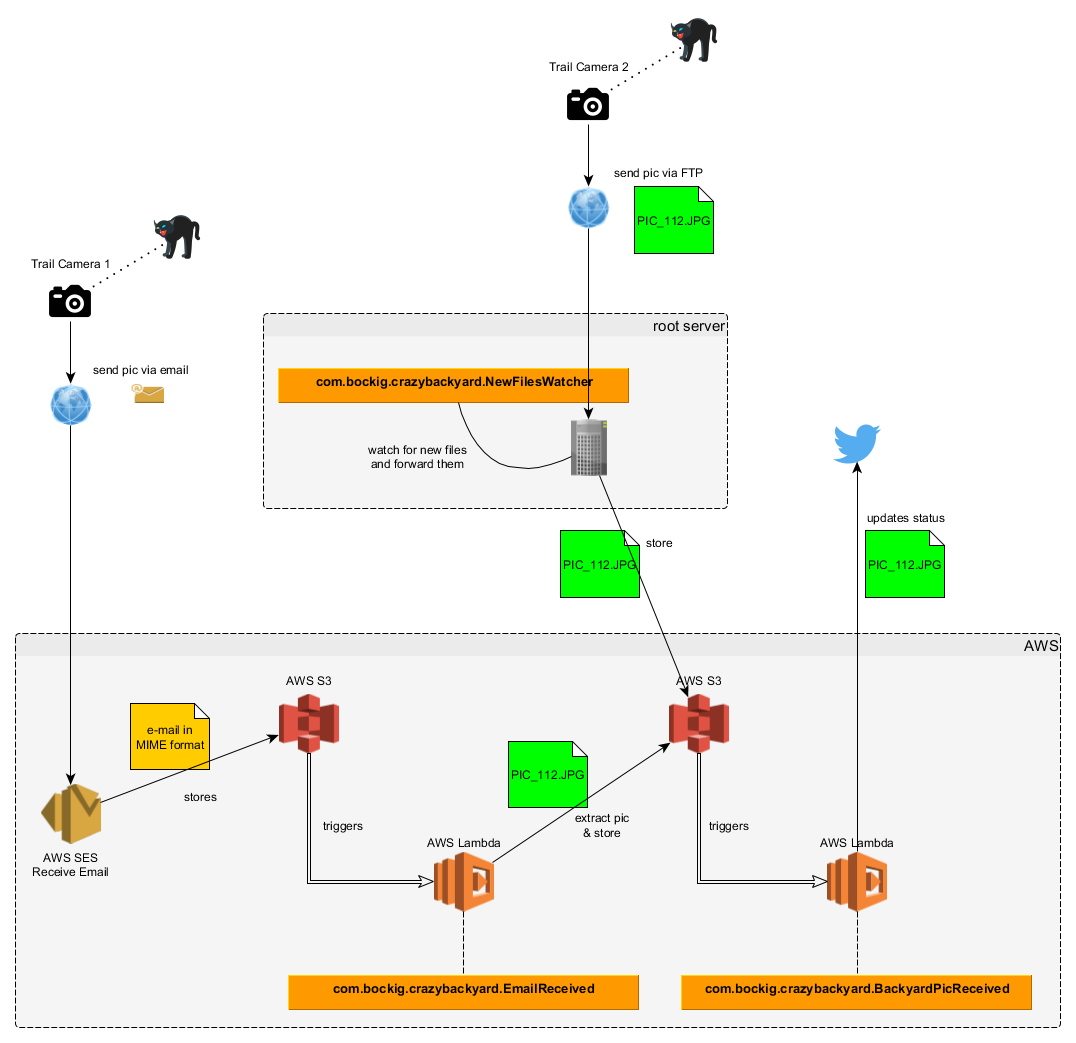
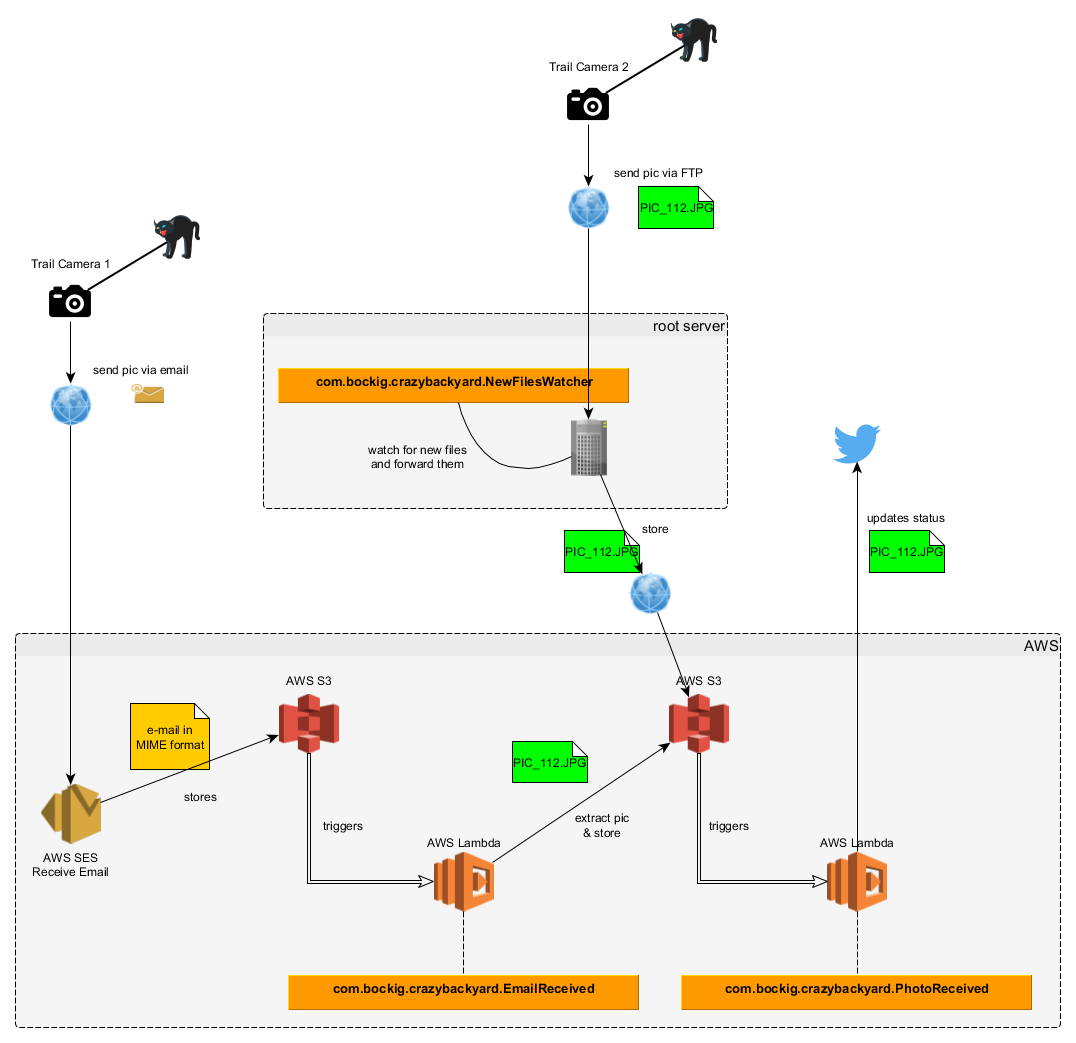
set hours on client side...wip

diff --git a/src/main/java/com/bockig/crazybackyard/PhotoReceived.java b/src/main/java/com/bockig/crazybackyard/PhotoReceived.java
@@ -9,22 +9,23 @@ import twitter4j.*;
 
 import java.io.IOException;
 import java.io.InputStream;
+import java.util.Map;
 
-public class BackyardPicReceived extends S3FileReceiver {
+public class PhotoReceived extends S3FileReceiver {
 
-    private static final Logger LOG = LogManager.getLogger(BackyardPicReceived.class);
+    private static final Logger LOG = LogManager.getLogger(PhotoReceived.class);
 
     @Override
     protected void receiveObject(S3Object object, AmazonS3 s3Client) {
-        BackyardPicReceivedConfig config = BackyardPicReceivedConfig.load();
-        if (!config.isNowActive()) {
-            LOG.info("disabled now - skipping");
+        LOG.info("going to tweet: {}", object.getKey());
+
+        PhotoReceivedConfig config = PhotoReceivedConfig.load();
+        if (!shouldPostNow(config, object.getObjectMetadata().getUserMetadata())) {
             return;
         }
-        LOG.info("going to tweet: {}", object.getKey());
-        Twitter twitter = new TwitterFactory(config.twitterConfig()).getInstance();
 
         try (InputStream fis = object.getObjectContent()) {
+            Twitter twitter = new TwitterFactory(config.twitterConfig()).getInstance();
             String text = MetaData.buildStatusText(object.getObjectMetadata().getUserMetadata());
             postStatusUpdate(twitter, text, object.getKey(), fis);
         } catch (IOException e) {
@@ -36,10 +37,22 @@ public class BackyardPicReceived extends S3FileReceiver {
         }
     }
 
+    static boolean shouldPostNow(PhotoReceivedConfig globalConfig, Map<String, String> userMetadata) {
+        if (!globalConfig.isEnabled()) {
+            LOG.info("disabled now (global config) - skipping");
+            return false;
+        }
+        if (!MetaData.isNowActive(userMetadata)) {
+            LOG.info("disabled now (sender-specific config) - skipping");
+            return false;
+        }
+        return true;
+    }
+
     private void postStatusUpdate(Twitter twitter, String text, String filename, InputStream fis) throws TwitterException {
         StatusUpdate update = new StatusUpdate(text);
         update.setMedia(filename, fis);
         Status result = twitter.updateStatus(update);
-        LOG.info("successfully posted tweed with id {}", result.getId());
+        LOG.info("successfully posted tweet with id {}", result.getId());
     }
 }

diff --git a/src/main/java/com/bockig/crazybackyard/model/MetaData.java b/src/main/java/com/bockig/crazybackyard/model/MetaData.java
@@ -3,18 +3,18 @@ package com.bockig.crazybackyard.model;
 import com.amazonaws.services.s3.model.ObjectMetadata;
 
 import java.time.Instant;
-import java.time.ZoneId;
 import java.time.ZonedDateTime;
 import java.time.format.DateTimeFormatter;
 import java.util.Map;
 
 public class MetaData {
 
-    private static DateTimeFormatter TIME_FORMAT = DateTimeFormatter.ofPattern("hh:mm a");
+    private static DateTimeFormatter TIME_FORMAT = DateTimeFormatter.ofPattern("hh:mm:ss a");
 
     static final String UTC = "utc";
     static final String FROM = "from";
     static final String SUBJECT = "subject";
+    private static final String ACTIVE_HOURS = "active-hours";
 
     private MetaData() {
     }
@@ -22,15 +22,25 @@ public class MetaData {
     public static String buildStatusText(Map<String, String> userMetadata) throws Exception {
         String utc = userMetadata.get(UTC);
         if (utc != null) {
-            ZonedDateTime time = ZonedDateTime.ofInstant(Instant.ofEpochSecond(Long.valueOf(utc)), ZoneId.of("Europe/Berlin"));
-            return String.format("Gotcha buddy! (%s) #trailcam", time.format(TIME_FORMAT));
+            ZonedDateTime time = ZonedDateTime.ofInstant(Instant.ofEpochMilli(Long.valueOf(utc)), Hours.DEFAULT_ZONE);
+            return String.format("Hey buddy! (%s) #trailcam", time.format(TIME_FORMAT));
         }
-        return "Gotcha buddy! #trailcam";
+        return "Hey buddy! #trailcam";
     }
 
     public static ObjectMetadata create(Map<String, String> meta) {
         ObjectMetadata metaData = new ObjectMetadata();
         meta.forEach(metaData::addUserMetadata);
+        return metaData;
+    }
+
+    public static boolean isNowActive(Map<String, String> userMetadata) {
+        return Hours.checkActive(userMetadata.get(ACTIVE_HOURS));
+    }
+
+    static ObjectMetadata buildHours(String hours) {
+        ObjectMetadata metaData = new ObjectMetadata();
+        metaData.addUserMetadata(ACTIVE_HOURS, hours);
         return metaData;
     }
 }

diff --git a/src/main/java/com/bockig/crazybackyard/PhotoReceivedConfig.java b/src/main/java/com/bockig/crazybackyard/PhotoReceivedConfig.java
@@ -1,0 +1,42 @@
+package com.bockig.crazybackyard;
+
+import com.bockig.crazybackyard.model.Config;
+import com.bockig.crazybackyard.model.SystemProperty;
+import twitter4j.conf.Configuration;
+import twitter4j.conf.ConfigurationBuilder;
+
+import java.util.ArrayList;
+import java.util.List;
+
+public class PhotoReceivedConfig extends Config {
+
+    private static final String CONSUMER_KEY = "CRAZYBACKYARD_TWITTER_CONSUMER_KEY";
+    private static final String CONSUMER_SECRET = "CRAZYBACKYARD_TWITTER_CONSUMER_SECRET";
+    private static final String ACCESS_TOKEN = "CRAZYBACKYARD_TWITTER_ACCESS_TOKEN";
+    private static final String ACCESS_SECRET = "CRAZYBACKYARD_TWITTER_ACCESS_SECRET";
+    private static final String ENABLED = "CRAZYBACKYARD_TWITTER_ENABLED";
+
+    private PhotoReceivedConfig(List<SystemProperty> properties) {
+        super(properties);
+    }
+
+    static PhotoReceivedConfig load() {
+        return new PhotoReceivedConfig(new ArrayList<>(
+                SystemProperty.create(CONSUMER_KEY, CONSUMER_SECRET, ACCESS_TOKEN, ACCESS_SECRET, ENABLED)));
+    }
+
+    Configuration twitterConfig() {
+        ConfigurationBuilder cb = new ConfigurationBuilder()
+                .setOAuthConsumerKey(propertyValue(CONSUMER_KEY))
+                .setOAuthConsumerSecret(propertyValue(CONSUMER_SECRET))
+                .setOAuthAccessToken(propertyValue(ACCESS_TOKEN))
+                .setOAuthAccessTokenSecret(propertyValue(ACCESS_SECRET));
+        return cb.build();
+    }
+
+    boolean isEnabled() {
+        return Boolean.parseBoolean(propertyValue(ENABLED));
+    }
+
+
+}

diff --git a/src/main/java/com/bockig/crazybackyard/model/S3FileUploader.java b/src/main/java/com/bockig/crazybackyard/model/S3FileUploader.java
@@ -9,6 +9,9 @@ import org.apache.logging.log4j.LogManager;
 import org.apache.logging.log4j.Logger;
 
 import java.io.File;
+import java.io.FileInputStream;
+import java.io.IOException;
+import java.io.InputStream;
 import java.nio.file.Path;
 import java.util.function.Consumer;
 
@@ -17,22 +20,26 @@ public class S3FileUploader implements Consumer<Path> {
     private static final Logger LOG = LogManager.getLogger(S3FileUploader.class);
 
     private String bucketName;
+    private String hours;
 
-    public S3FileUploader(String bucketName) {
+    public S3FileUploader(String bucketName, String hours) {
         this.bucketName = bucketName;
+        this.hours = hours;
     }
 
     @Override
     public void accept(Path path) {
-        try {
+        File file = path.toFile();
+        try (InputStream fis = new FileInputStream(file)) {
             AmazonS3 s3Client = AmazonS3ClientBuilder.standard()
                     .withCredentials(new ProfileCredentialsProvider())
                     .build();
-            File file = path.toFile();
-            PutObjectRequest request = new PutObjectRequest(bucketName, file.getName(), file);
+            PutObjectRequest request = new PutObjectRequest(bucketName, file.getName(), fis, MetaData.buildHours(hours));
             s3Client.putObject(request);
         } catch (AmazonServiceException e) {
             LOG.error("couldnt write to s3", e);
+        } catch (IOException e) {
+            LOG.error("couldnt read file", e);
         }
     }
 

diff --git a/src/main/java/com/bockig/crazybackyard/model/Hours.java b/src/main/java/com/bockig/crazybackyard/model/Hours.java
@@ -1,0 +1,40 @@
+package com.bockig.crazybackyard.model;
+
+import org.apache.logging.log4j.util.Strings;
+
+import java.time.Clock;
+import java.time.LocalTime;
+import java.time.ZoneId;
+import java.util.regex.Matcher;
+import java.util.regex.Pattern;
+
+public class Hours {
+
+    private static final Pattern HOURS_PATTERN = Pattern.compile("(\\d\\d:\\d\\d)-(\\d\\d:\\d\\d)");
+
+    static final ZoneId DEFAULT_ZONE = ZoneId.of("Europe/Berlin");
+
+    private Hours() {
+    }
+
+    static boolean checkActive(Clock clock, String hoursString) {
+        if (Strings.isBlank(hoursString)) {
+            return false;
+        }
+        String trimmed = hoursString.trim().replaceAll("\n ", "").toLowerCase();
+        Matcher matcher = HOURS_PATTERN.matcher(trimmed);
+        if (matcher.matches()) {
+            LocalTime from = LocalTime.parse(matcher.group(1));
+            LocalTime to = LocalTime.parse(matcher.group(2));
+            LocalTime now = LocalTime.now(clock);
+            boolean overMidnight = to.isBefore(from);
+            return overMidnight ? !now.isAfter(to) : (!now.isBefore(from) && !now.isAfter(to));
+        } else {
+            return "open".equals(trimmed);
+        }
+    }
+
+    public static boolean checkActive(String hoursString) {
+        return checkActive(Clock.system(DEFAULT_ZONE), hoursString);
+    }
+}

diff --git a/src/main/java/com/bockig/crazybackyard/NewFilesWatcherConfig.java b/src/main/java/com/bockig/crazybackyard/NewFilesWatcherConfig.java
@@ -1,0 +1,33 @@
+package com.bockig.crazybackyard;
+
+import com.bockig.crazybackyard.model.Config;
+import com.bockig.crazybackyard.model.SystemProperty;
+
+import java.util.ArrayList;
+import java.util.List;
+
+class NewFilesWatcherConfig extends Config {
+
+    private static final String TARGET_BUCKET = "CRAZYBACKYARD_S3_TARGET_BUCKET";
+    private static final String WATCH_DIRECTORY = "CRAZYBACKYARD_WATCH_DIRECTORY";
+
+    NewFilesWatcherConfig(List<SystemProperty> properties) {
+        super(properties);
+    }
+
+    static NewFilesWatcherConfig load() {
+        return new NewFilesWatcherConfig(new ArrayList<>(SystemProperty.create(TARGET_BUCKET, WATCH_DIRECTORY, HOURS)));
+    }
+
+    String getTargetBucket() {
+        return propertyValue(TARGET_BUCKET);
+    }
+
+    String watchDirectory() {
+        return propertyValue(WATCH_DIRECTORY);
+    }
+
+    String getHours() {
+        return propertyValue(HOURS);
+    }
+}

diff --git a/src/main/java/com/bockig/crazybackyard/NewFilesWatcher.java b/src/main/java/com/bockig/crazybackyard/NewFilesWatcher.java
@@ -29,11 +29,8 @@ public class NewFilesWatcher {
     }
 
     public static void main(String[] args) throws InterruptedException {
-        LOG.info("start watching for files ...");
-        if (args.length < 2) {
-            throw new IllegalArgumentException("invalid arguments! pls supply <localdirectory> and <bucket>");
-        }
-        NewFilesWatcher watcher = new NewFilesWatcher(args[0], new S3FileUploader(args[1]));
+        NewFilesWatcherConfig config = NewFilesWatcherConfig.load();
+        NewFilesWatcher watcher = new NewFilesWatcher(config.watchDirectory(), new S3FileUploader(config.getTargetBucket(), config.getHours()));
         watcher.startWatching();
     }
 

diff --git a/src/test/java/com/bockig/crazybackyard/model/MetaDataTest.java b/src/test/java/com/bockig/crazybackyard/model/MetaDataTest.java
@@ -13,12 +13,12 @@ public class MetaDataTest {
 
     @Before
     public void setUp() {
-        this.complete.put(MetaData.UTC, "1536660625");
+        this.complete.put(MetaData.UTC, "1536660625500");
     }
 
     @Test
     public void testNormal() throws Exception {
-        Assert.assertEquals("Gotcha buddy! (12:10 PM) #trailcam", MetaData.buildStatusText(complete));
-        Assert.assertEquals("Gotcha buddy! #trailcam", MetaData.buildStatusText(new HashMap<>()));
+        Assert.assertEquals("Hey buddy! (12:10:25 PM) #trailcam", MetaData.buildStatusText(complete));
+        Assert.assertEquals("Hey buddy! #trailcam", MetaData.buildStatusText(new HashMap<>()));
     }
 }

diff --git a/src/main/java/com/bockig/crazybackyard/model/BackyardEmailReader.java b/src/main/java/com/bockig/crazybackyard/model/BackyardEmailReader.java
@@ -138,7 +138,7 @@ public class BackyardEmailReader {
 
     public Map<String, String> metaData() {
         Map<String, String> meta = new HashMap<>();
-        meta.put(MetaData.UTC, String.valueOf(timestamp().flatMap(t -> Optional.of(t.toEpochSecond())).orElse(0L)));
+        meta.put(MetaData.UTC, String.valueOf(timestamp().flatMap(t -> Optional.of(t.toInstant().toEpochMilli())).orElse(0L)));
         meta.put(MetaData.FROM, sender());
         meta.put(MetaData.SUBJECT, subject());
         return meta;

diff --git a/src/test/java/com/bockig/crazybackyard/model/HoursTest.java b/src/test/java/com/bockig/crazybackyard/model/HoursTest.java
@@ -1,12 +1,12 @@
-package com.bockig.crazybackyard;
+package com.bockig.crazybackyard.model;
 
 import org.junit.Test;
 
 import java.time.*;
 
-import static com.bockig.crazybackyard.BackyardPicReceivedConfig.checkActive;
+import static com.bockig.crazybackyard.model.Hours.checkActive;
 
-public class BackyardPicReceivedConfigTest {
+public class HoursTest {
 
     private static final String morning = "07:00-12:00";
     private static final String atNight = "23:00-07:00";

diff --git a/src/test/java/com/bockig/crazybackyard/NewFilesWatcherTest.java b/src/test/java/com/bockig/crazybackyard/NewFilesWatcherTest.java
@@ -12,7 +12,7 @@ public class NewFilesWatcherTest {
     @Test
     @Ignore
     public void nameTest() throws Exception {
-        Consumer<Path> x = new S3FileUploader("axl-sml");
+        Consumer<Path> x = new S3FileUploader("axl-sml", "any");
         NewFilesWatcher watcher = new NewFilesWatcher("D:\\tmp\\crazy", x);
         watcher.startWatching();
     }

diff --git a/src/main/java/com/bockig/crazybackyard/model/Config.java b/src/main/java/com/bockig/crazybackyard/model/Config.java
@@ -4,6 +4,8 @@ import java.util.List;
 
 public abstract class Config {
 
+    protected static final String HOURS = "CRAZYBACKYARD_ACTIVE_HOURS";
+
     private List<SystemProperty> properties;
 
     public Config(List<SystemProperty> properties) {
